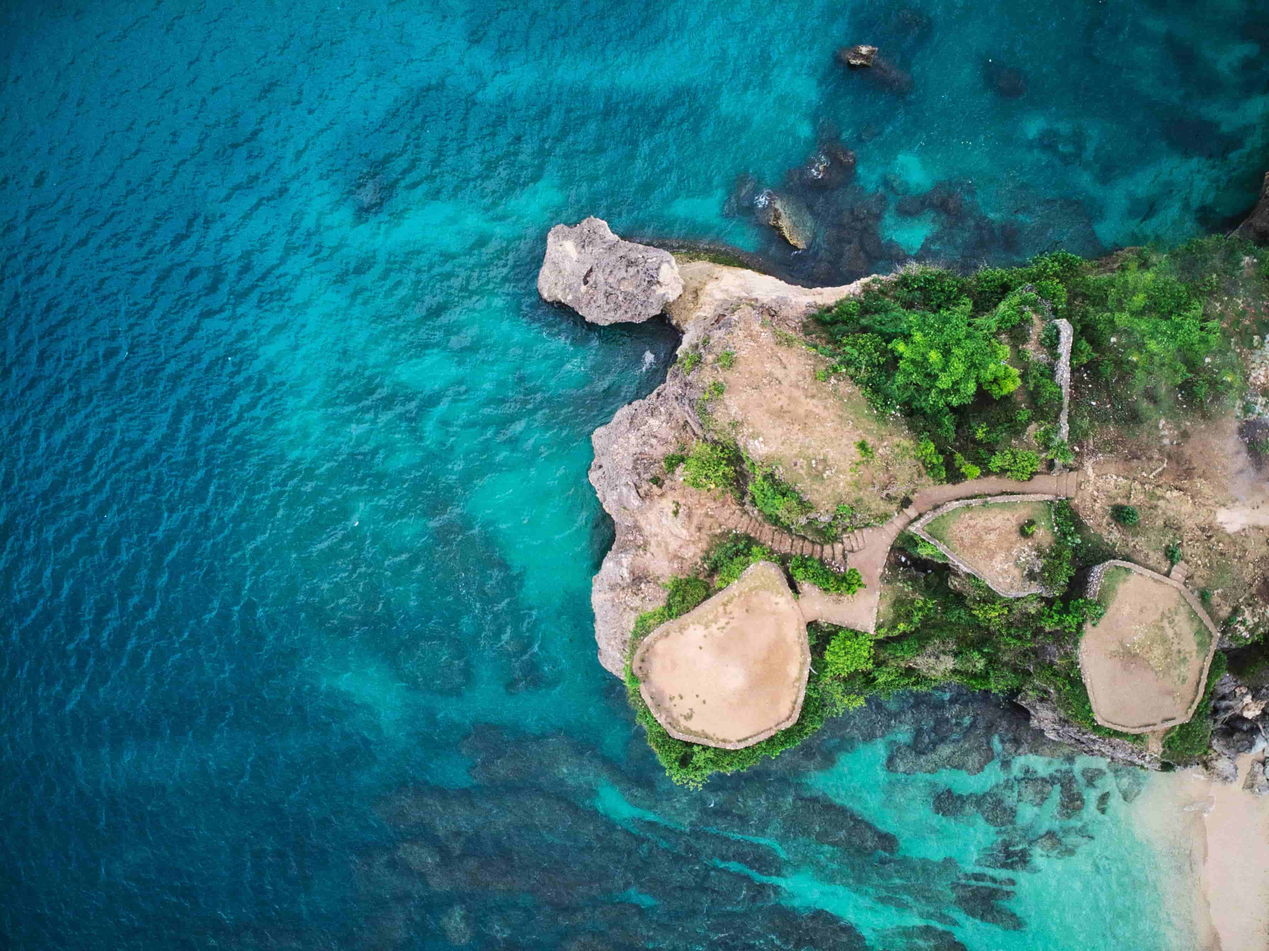
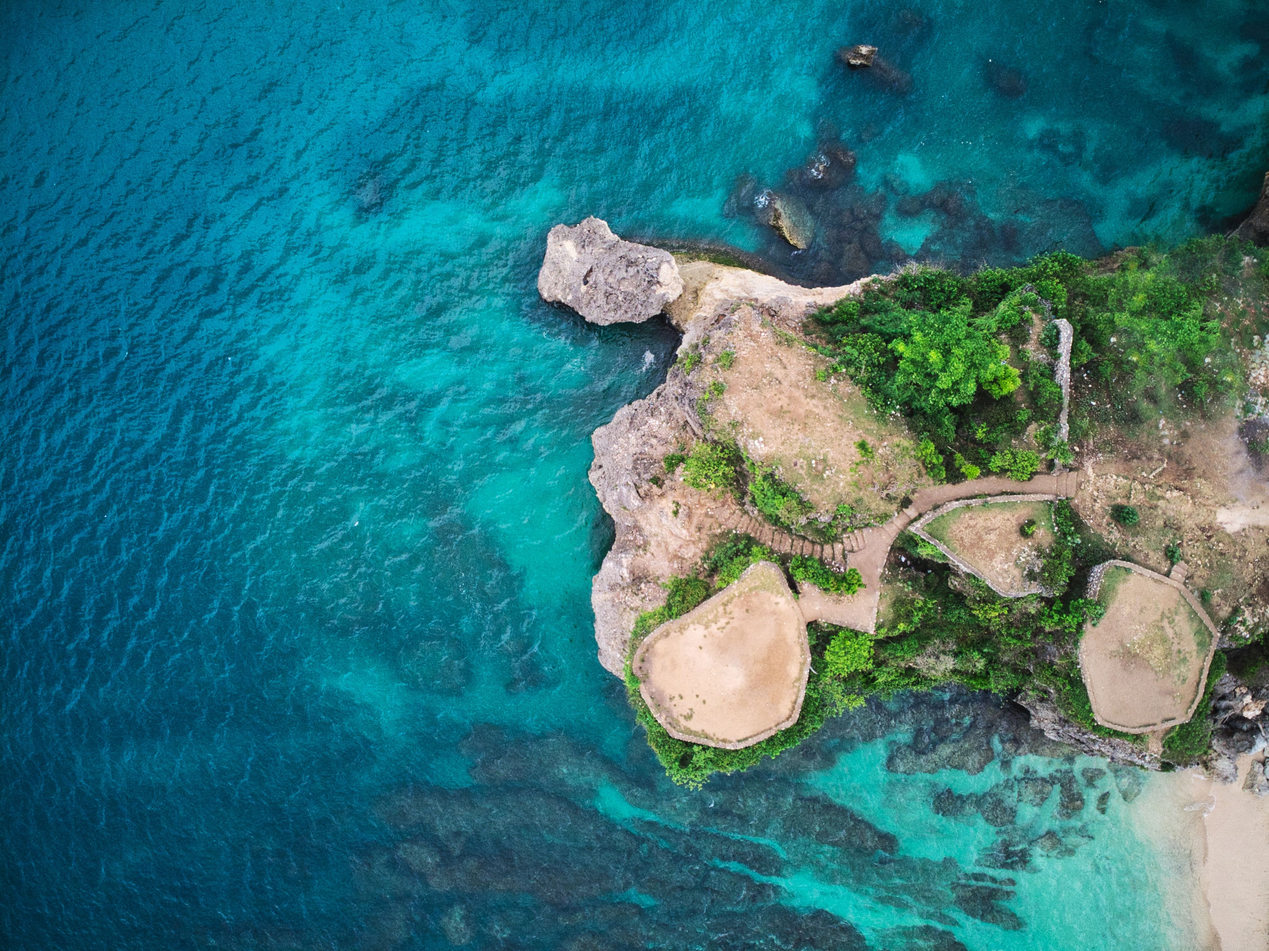
changed bali image and added hover effect to nav links

diff --git a/css/main.css b/css/main.css
@@ -338,6 +338,10 @@ img {
   }
   ._nav-link {
     color: var(--primary-color-lighter);
+    transition: all 150ms;
+  }
+  ._nav-link:hover {
+    color: var(--primary-color);
   }
   ._nav-toggle {
     display: none;
